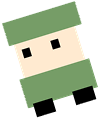
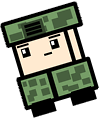
총 이미지 모두 추가, 플레이어 이미지 수정, 총 선택 화면에 총 이미지 추가, 몬스터 체력 표시기에 크로스헤어가 가려지는 문제 수정

diff --git a/main.cpp b/main.cpp
@@ -44,6 +44,14 @@ void IMG_FILE_LOAD() {
 
 	SCAR_H_right.Load(L".\\res\\SCAR_H_right.png");
 	SCAR_H_left.Load(L".\\res\\SCAR_H_left.png");
+	M16_right.Load(L".\\res\\m16_right.png");
+	M16_left.Load(L".\\res\\m16_left.png");
+	MP44_right.Load(L".\\res\\mp44_right.png");
+	MP44_left.Load(L".\\res\\mp44_left.png");
+	MG42_right.Load(L".\\res\\mg42_right.png");
+	MG42_left.Load(L".\\res\\mg42_left.png");
+	AWP_right.Load(L".\\res\\awp_right.png");
+	AWP_left.Load(L".\\res\\awp_left.png");
 
 	indicator_back.Load(L".\\res\\indicator_back.png");
 	ammo_icon.Load(L".\\res\\ammo_icon.png");
@@ -646,13 +654,13 @@ LRESULT CALLBACK WndProc(HWND hWnd, UINT uMsg, WPARAM wParam, LPARAM lParam) {
 				//몬스터 이미지 출력
 				show_monster(mdc, ss_x, ss_y, landing_shake);
 
-				if(!manager.isPaused()) {
+				//인터페이스 출력
+				show_interface(mdc, rt);
+
+				if (!manager.isPaused()) {
 					//조준점 출력
 					show_target(mdc, mx + ss_x, my + ss_y + landing_shake, var);
 				}
-
-				//인터페이스 출력
-				show_interface(mdc, rt);
 			}
 			
 			////////////////////////
